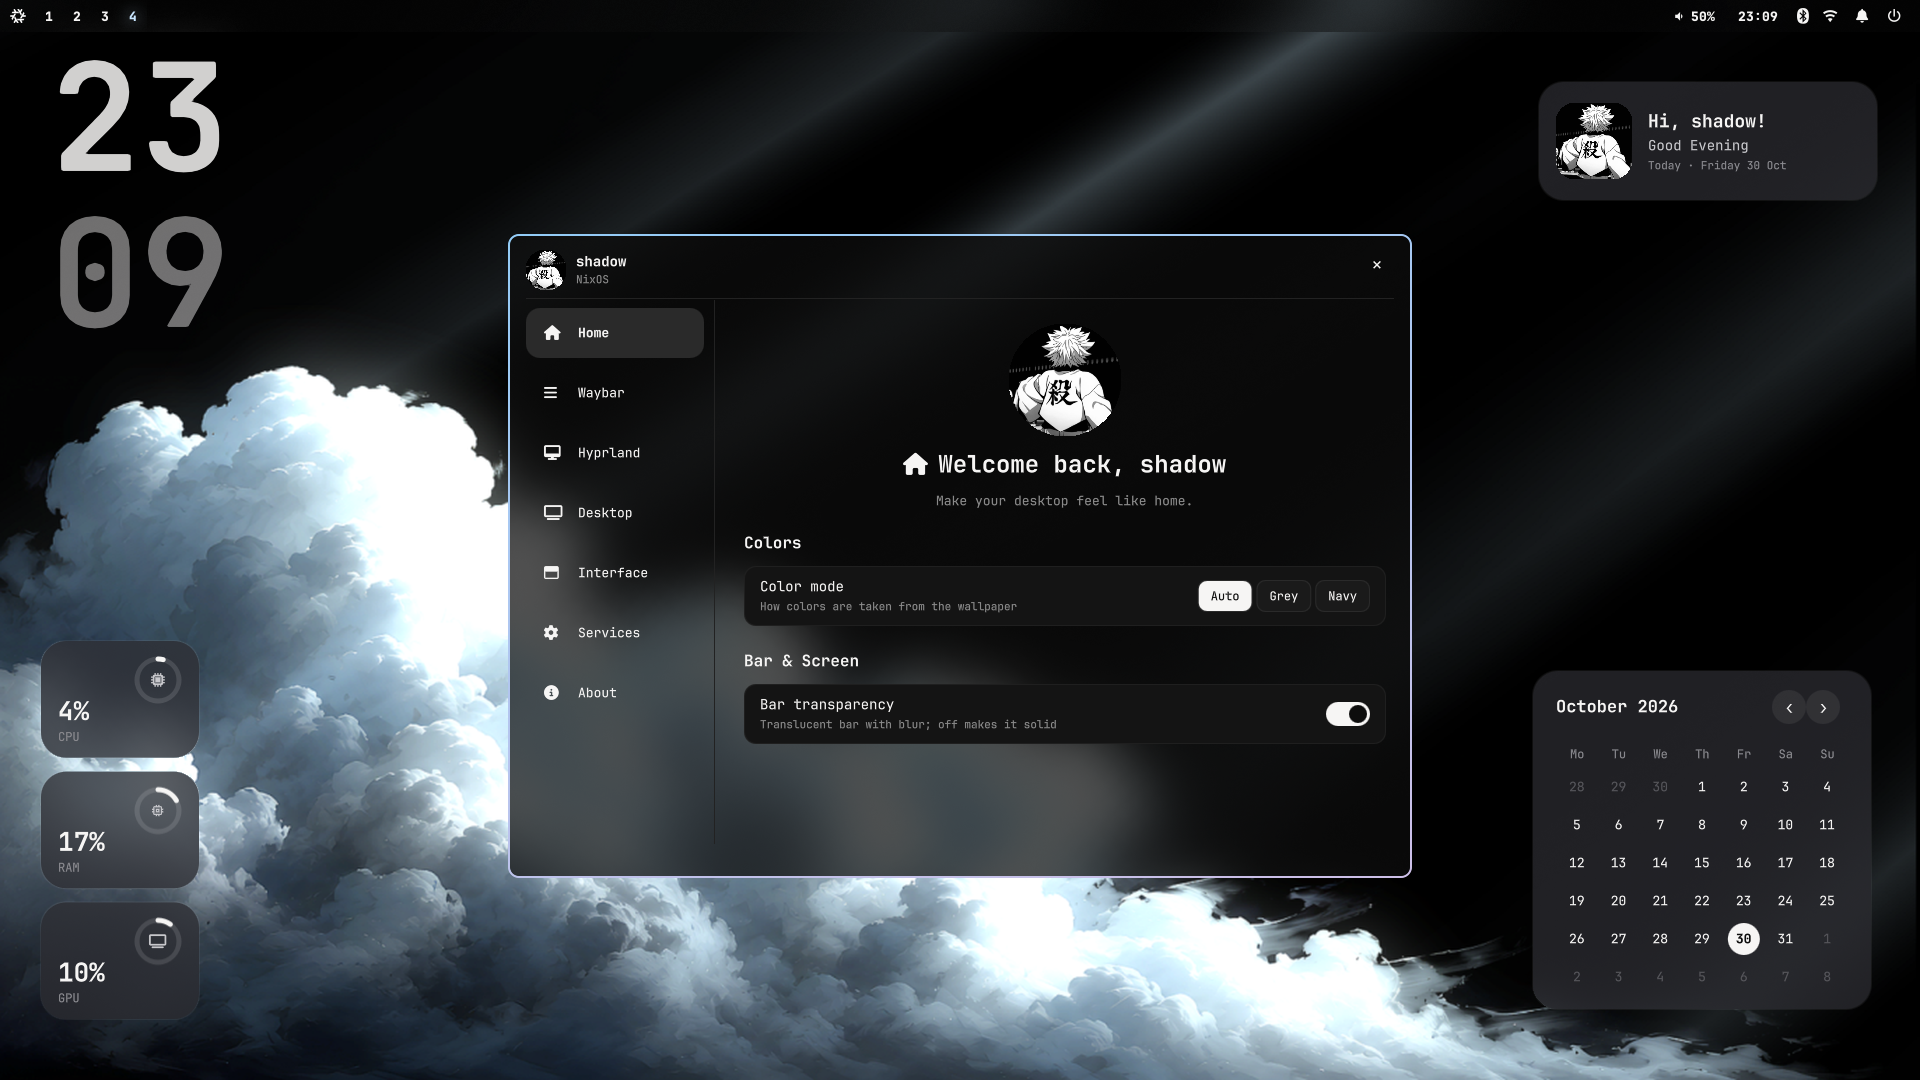
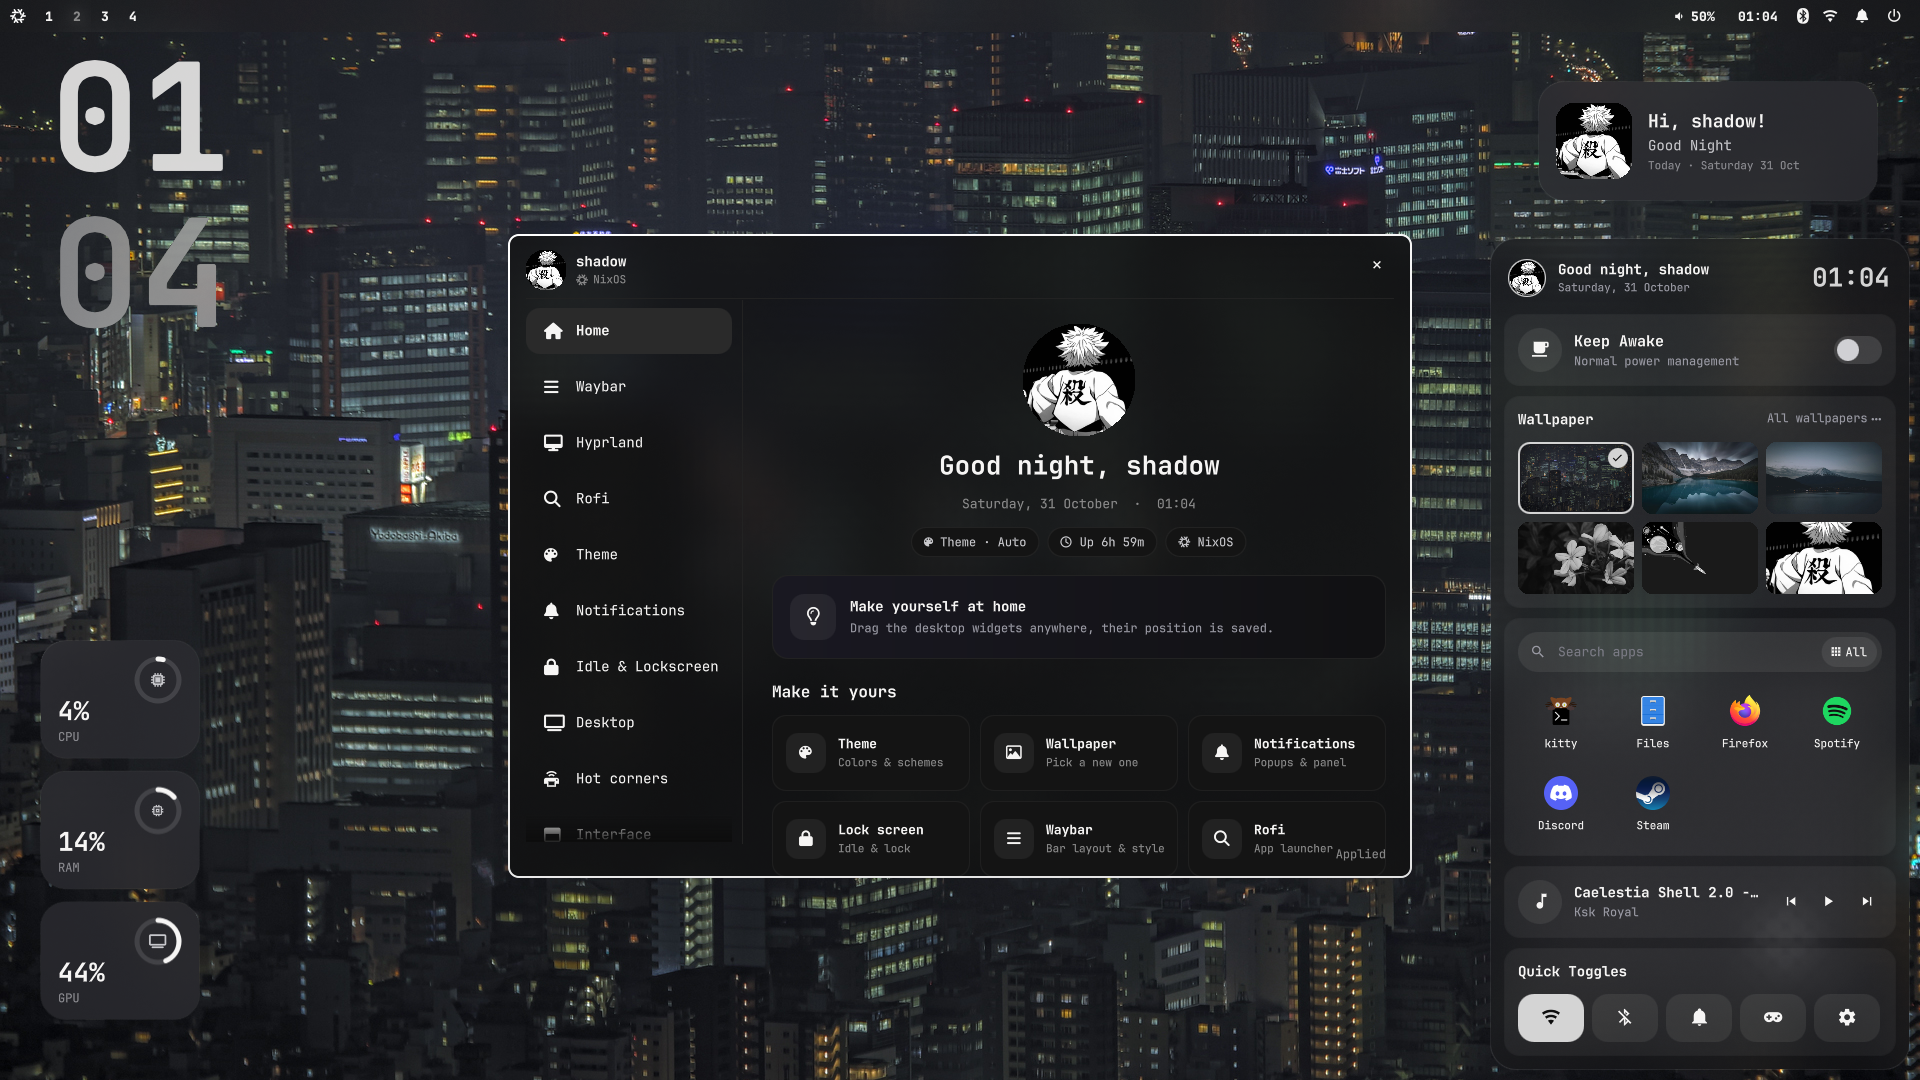
New Settings and hot corner screenshot

diff --git a/README.md b/README.md
@@ -29,7 +29,7 @@
 </p>
 <p align="center">
   <img src="assets/screenshot-settings.png" alt="The Settings app (SUPER+U)" width="100%"><br>
-  <sub>The Settings app, opened with <code>SUPER + U</code></sub>
+  <sub>The Settings app (<code>SUPER + U</code>) and the hot corner panel</sub>
 </p>
 
 ## Features
